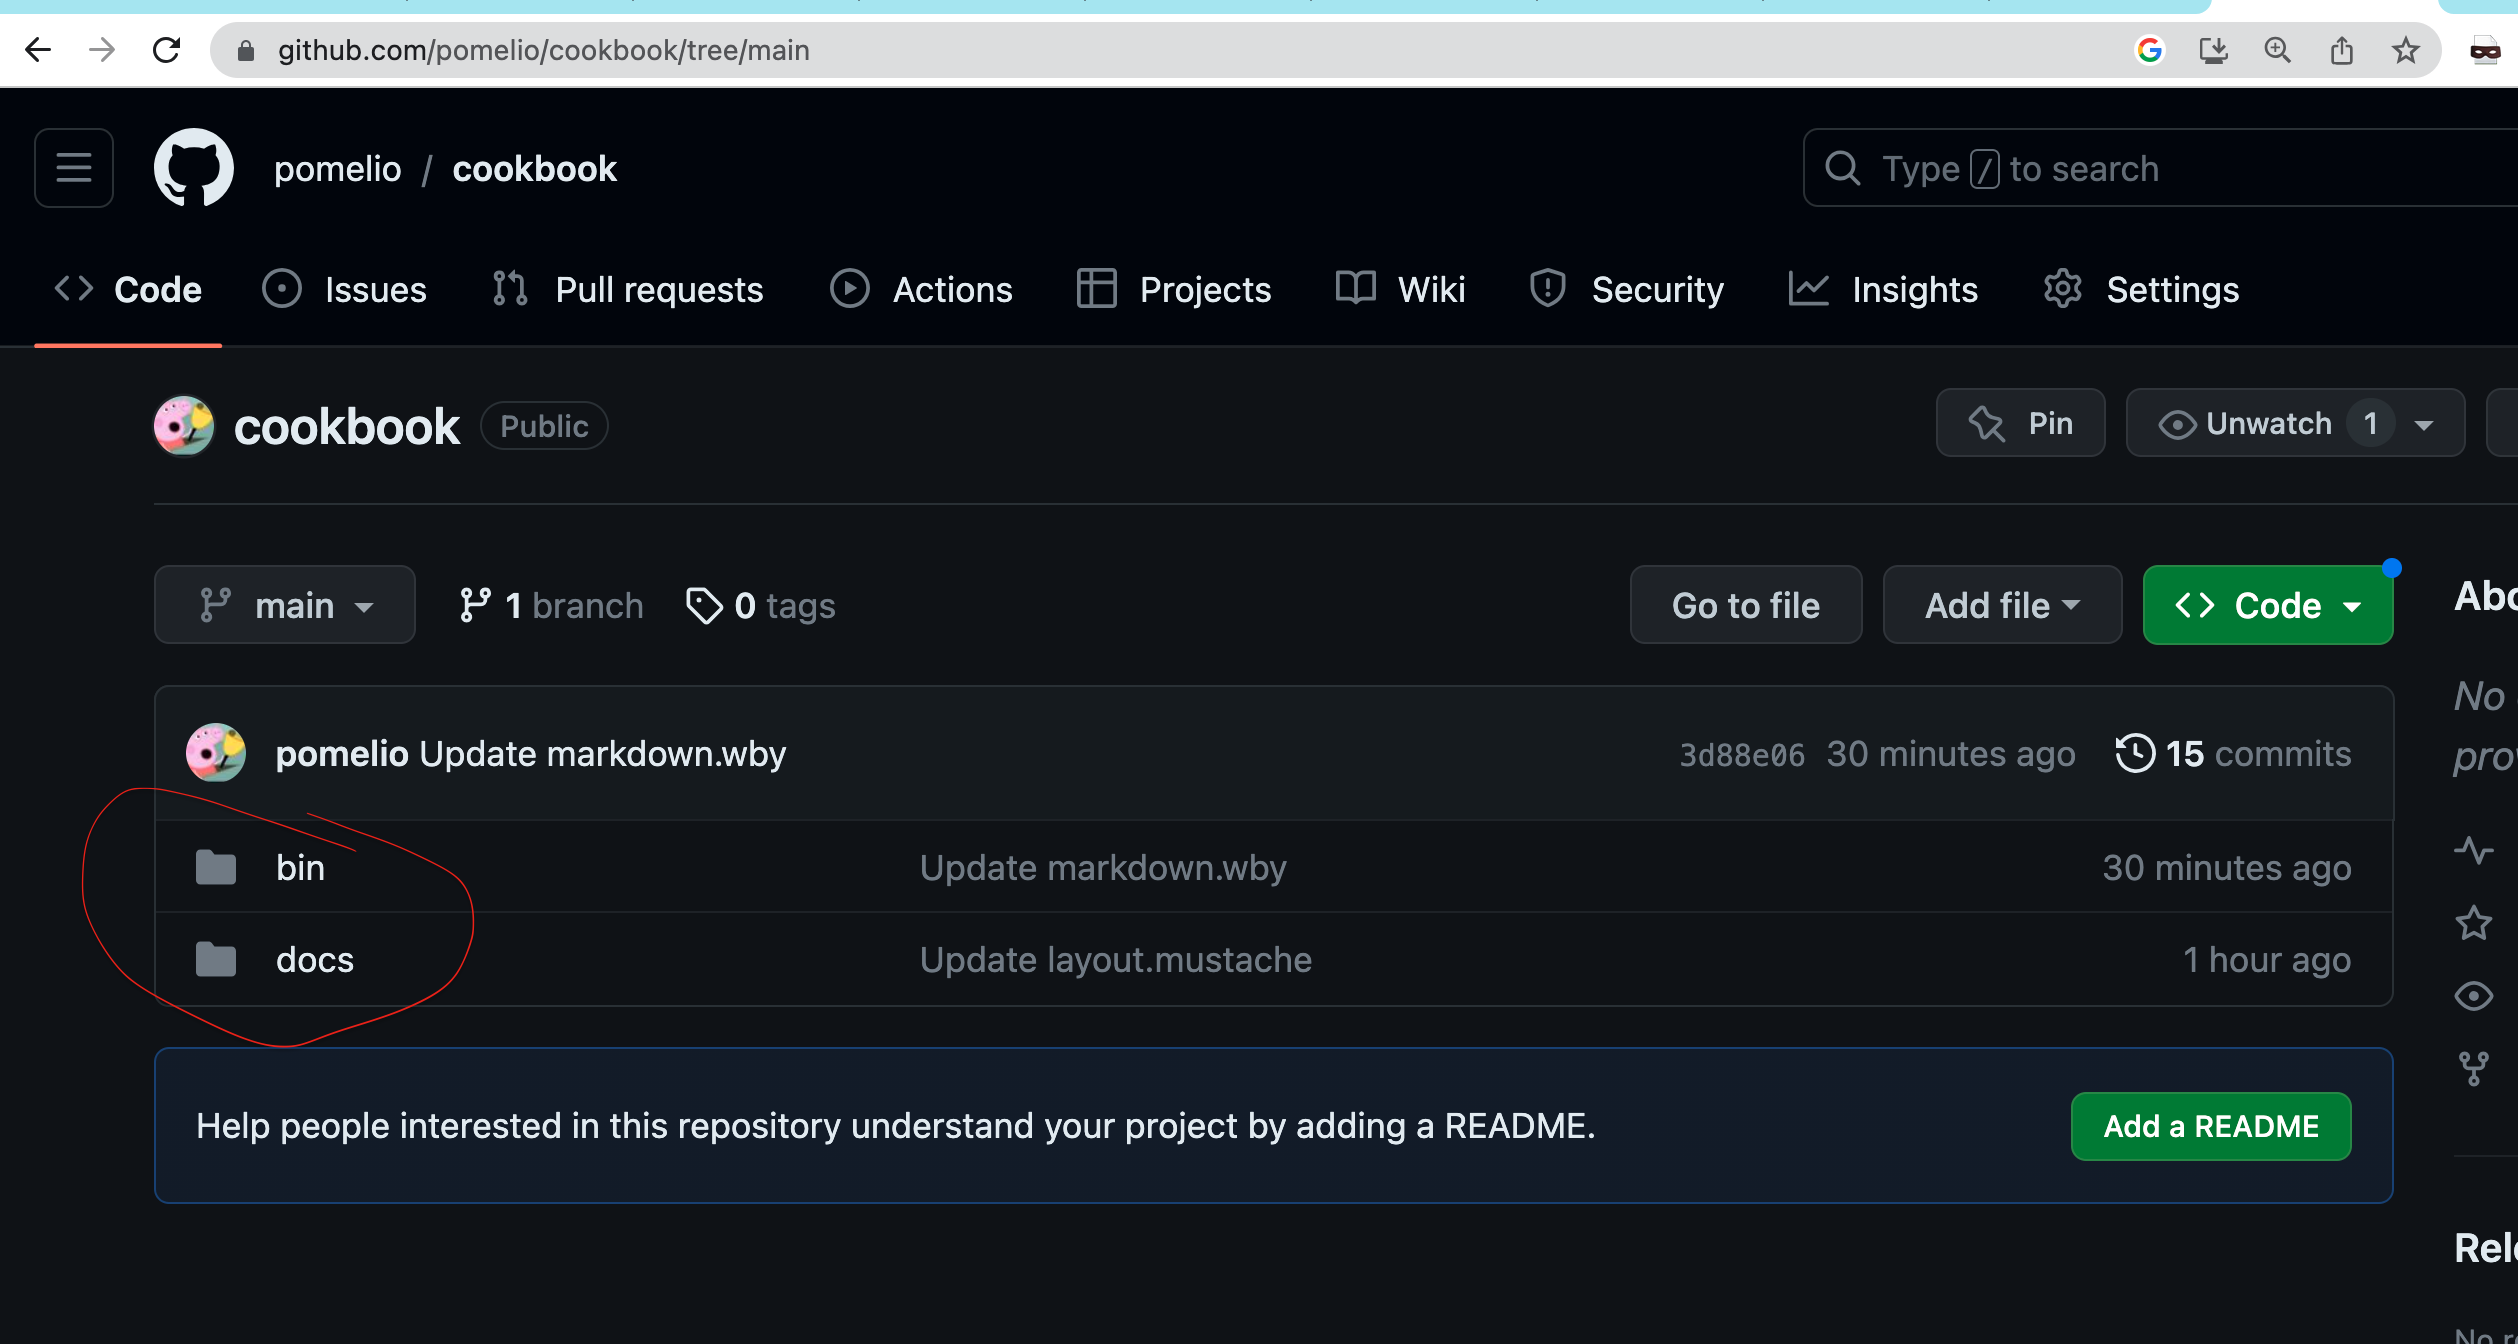
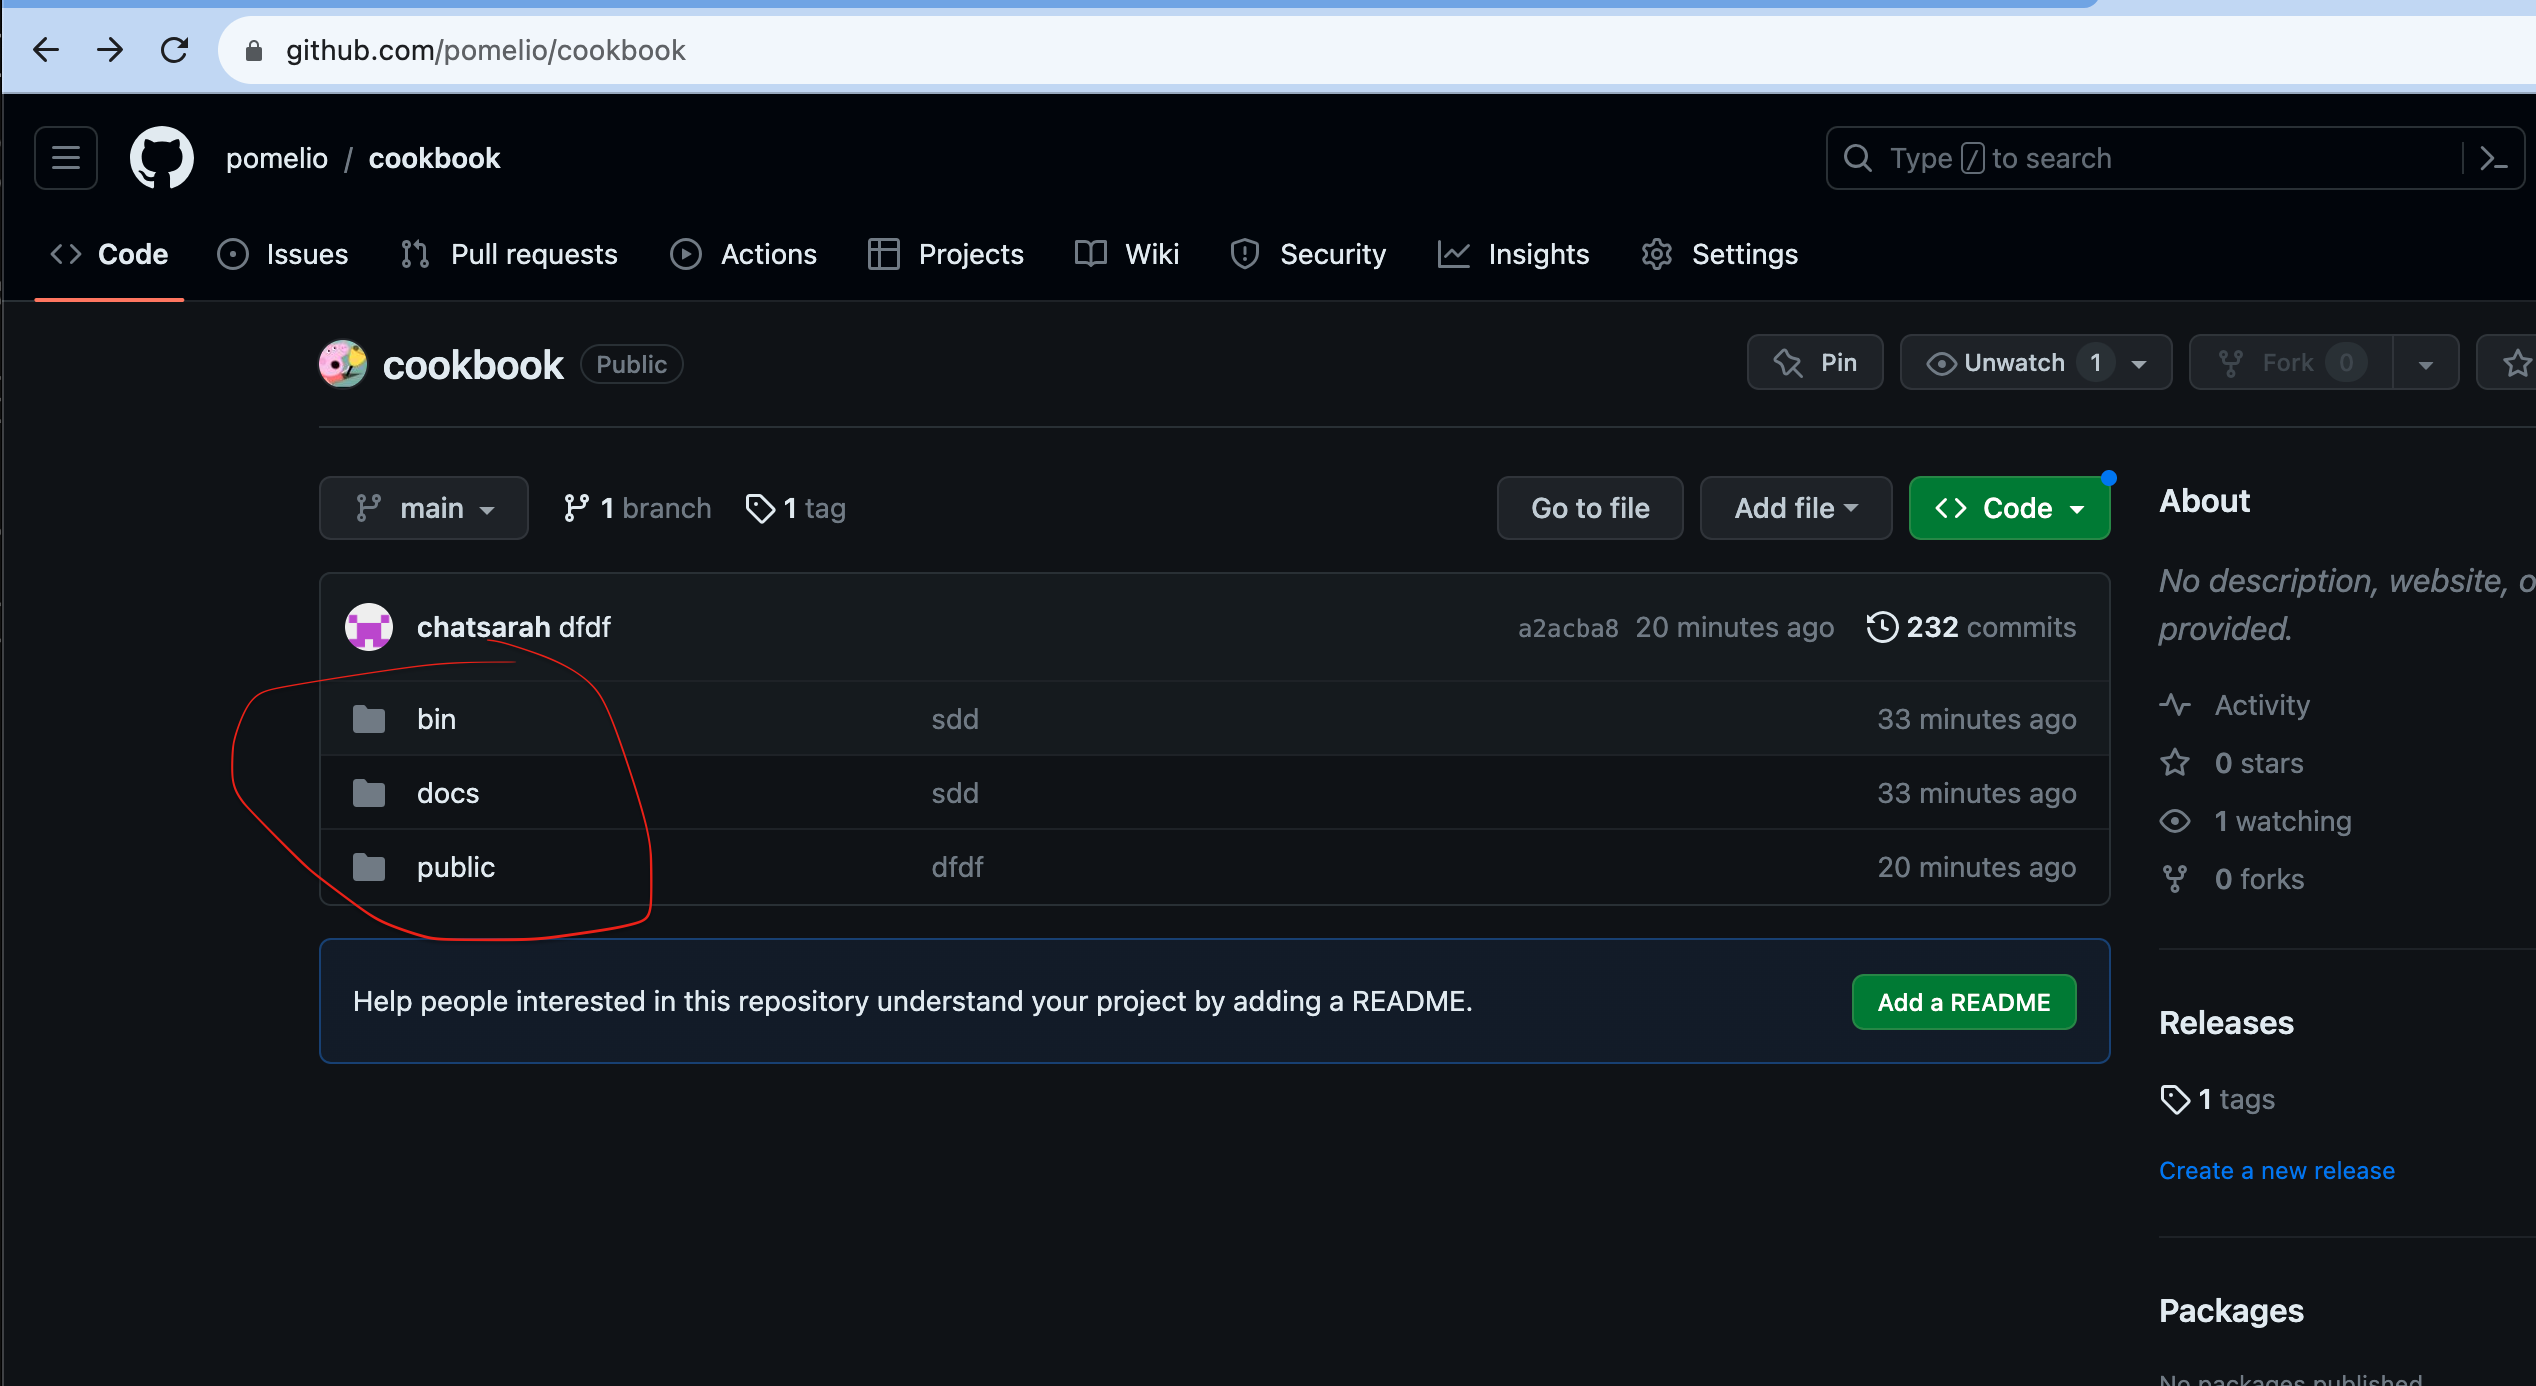
df

diff --git a/docs/project_structure.md b/docs/project_structure.md
@@ -8,11 +8,13 @@
      ---/bin
         ---/modules
      ---/docs
+     ---/public
 ```
 
 
 - The `bin` directory is the root directory for all program source codes. The files saved under this folder are call `pages`. All http requests will be sent to the `bin/index.wby` page by default. Developer can create other `pages`.
-- The `docs` is the root directory of project documents. Project documents can be css files, js files, mustache template files, text files, json files, etc.
+- The `docs` is the root directory of project private documents. Project documents can be mustache template files, json files. These files can not be public accessed.
+- The `public` is the root folder of project public files. These files can be accessed publicly such as js, css or image files.
 - The `bin/modules` directory is for user defined modules. The `pages` can `import` these modules by the `import statement`.
 
 
